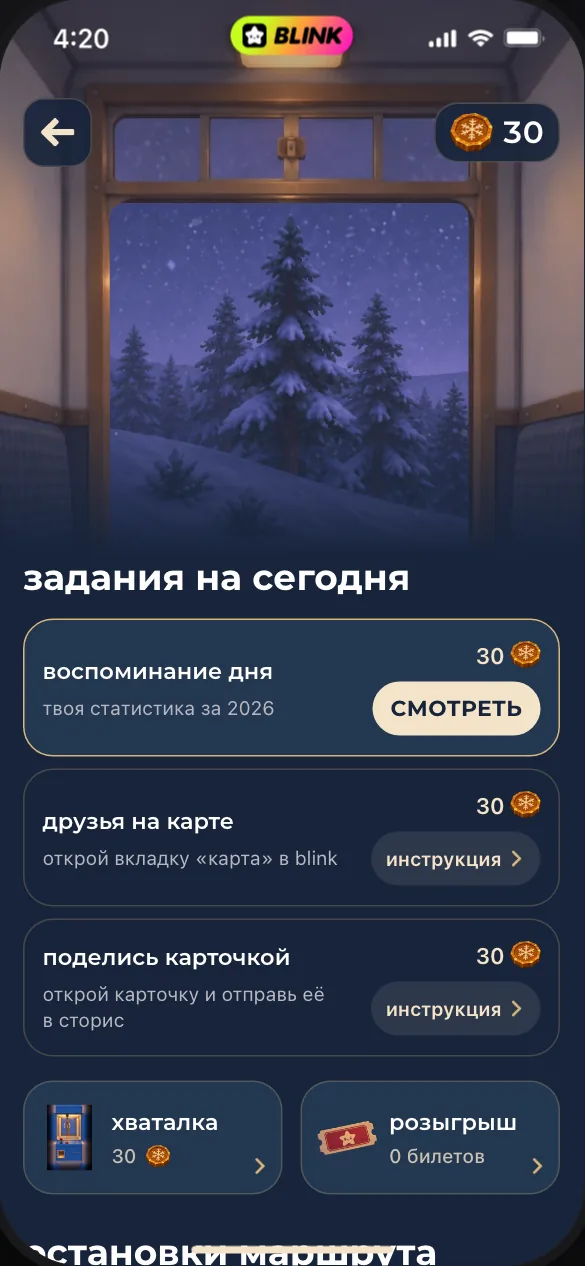
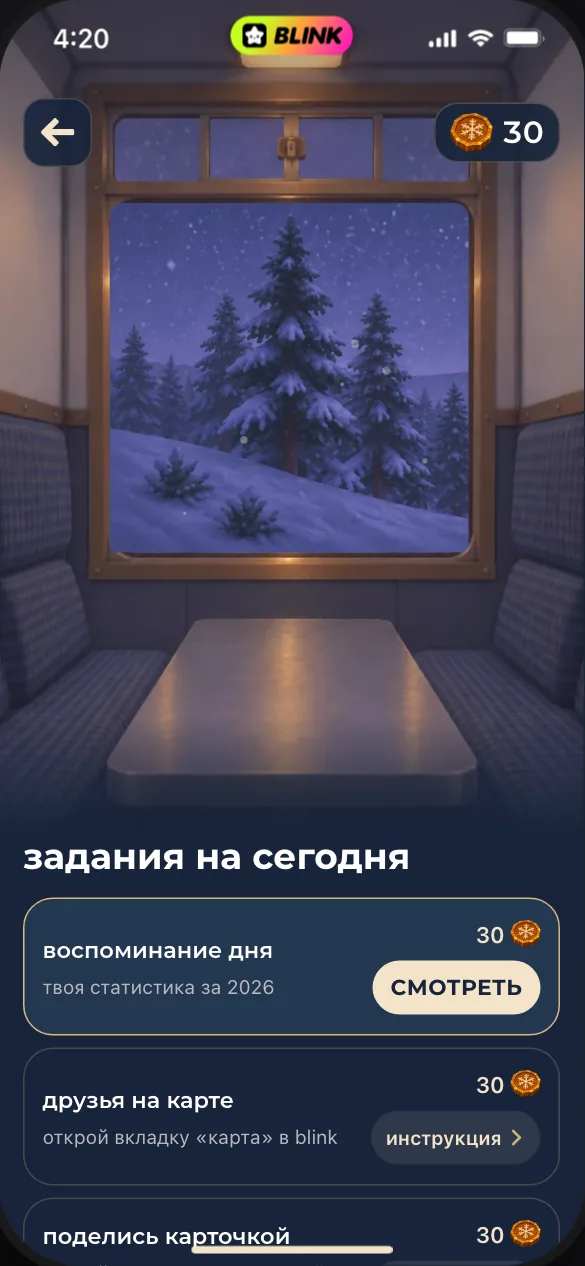
Add daily train views and a deeper claw-machine chamber

Changed region(s): [[0.0, 0.3389, 1.0, 1.0]]

diff --git a/features/advent/av-journey.js b/features/advent/av-journey.js
@@ -1,4 +1,4 @@
-/* НГБЛИНК: воспоминание на столике, случайный захват и печенье у камина. */
+/* НГБЛИНК: пейзажи поездки, случайный захват и печенье у камина. */
 (() => {
   'use strict';
   const A = name => `art/${name}.webp`;
@@ -6,6 +6,9 @@
   const icon = name => `<i class="icon icon--${name}" aria-hidden="true"></i>`;
   const art = (day, i, seen, getSrc) => `<span class="ex-day-object"><img class="ex-day-object__base" src="${A(atHome(i) ? (seen ? 'cookie' : 'stocking') : 'suitcase')}" alt="">${i === 0 ? '' : `<img class="ex-day-object__topic" src="${getSrc((day.charm || day.hero || day.obj) === 'fan' ? 's:fire' : (day.charm || day.hero || day.obj))}" alt="">`}</span>`;
   const J = window.AV_JOURNEY = { A, atHome, art };
+  // 14–31 December: the same date always returns the same view, with no adjacent repeats.
+  const route = ['panorama','village','river','viaduct','mountains','lake','city','panorama','mountains','village','lake','river','viaduct','city','mountains','panorama','village','city'];
+  J.landscape = index => atHome(index) ? null : A(`winter-${route[index] || 'panorama'}`);
   J.hero = ({day,i,seen}) => atHome(i)
     ? `<h2 class="visually-hidden" id="today-title">предсказание дня</h2><button class="ex-fortune-hotspot pressable" type="button" data-act="open-today" aria-label="${seen?'прочитать предсказание ещё раз':'открыть предсказание'}"></button>${seen?`<p class="av-today__seen">${icon('check')}предсказание прочитано</p>`:''}<button class="button ${seen?'button--secondary':'button--primary'} av-today__open pressable" type="button" data-act="open-today">${seen?'прочитать ещё раз':'открыть предсказание'}</button>`
     : '';
@@ -50,7 +53,7 @@
     if(decoration){root.innerHTML=`<div class="ex-decoration">${old.wire(ctx)}</div>`;root.querySelectorAll('[data-bulb]').forEach(e=>e.classList.add('is-lit'));return;}
     if(view==='result')return result();
     const empty=!remaining().length,poor=ctx.S.balance<ctx.D.ECONOMY.attempt;
-    root.innerHTML=`<div class="ex-arcade"><div class="ex-machine-wrap"><div class="ex-machine${view==='grabbing'?' is-grabbing':''}" role="img" aria-label="стеклянный аппарат в игровом вагоне" aria-busy="${view==='grabbing'}" style="--grab-drop:22cqh"><img class="ex-machine__car" src="${A('arcade-car')}" alt=""><img class="ex-machine__case" src="${A('claw-frame')}" alt=""><img class="ex-claw" src="${A('claw-hand')}" alt="">${view==='grabbing'?`<span class="ex-caught-prize"><img src="${ctx.src(award.prize.img)}" alt=""></span>`:''}</div></div><footer class="ex-arcade__footer"><button class="button button--primary" type="button" data-game="claw-grab" ${view==='grabbing'||empty?'disabled':''}>${view==='grabbing'?'достаём…':empty?'все подарки собраны':poor?'получить жетоны':`схватить <span>${ctx.D.ECONOMY.attempt}<img src="${A('coin')}" alt="жетонов"></span>`}</button><button class="ex-text-link" type="button" data-game="pool">все призы и правила ${icon('chevron')}</button></footer></div>`;
+    root.innerHTML=`<div class="ex-arcade"><div class="ex-machine-wrap"><div class="ex-machine${view==='grabbing'?' is-grabbing':''}" role="img" aria-label="стеклянный аппарат в игровом вагоне" aria-busy="${view==='grabbing'}" style="--grab-drop:32cqh"><img class="ex-machine__car" src="${A('arcade-car')}" alt=""><img class="ex-machine__case" src="${A('claw-frame')}" alt=""><div class="ex-machine__well" aria-hidden="true"></div><div class="ex-machine__depth"><span class="ex-machine__cable" aria-hidden="true"></span><img class="ex-claw" src="${A('claw-hand')}" alt="">${view==='grabbing'?`<span class="ex-caught-prize"><img src="${ctx.src(award.prize.img)}" alt=""></span>`:''}</div><div class="ex-machine__console" aria-hidden="true"><img src="${A('claw-frame')}" alt=""></div></div></div><footer class="ex-arcade__footer"><button class="button button--primary" type="button" data-game="claw-grab" ${view==='grabbing'||empty?'disabled':''}>${view==='grabbing'?'достаём…':empty?'все подарки собраны':poor?'получить жетоны':`схватить <span>${ctx.D.ECONOMY.attempt}<img src="${A('coin')}" alt="жетонов"></span>`}</button><button class="ex-text-link" type="button" data-game="pool">все призы и правила ${icon('chevron')}</button></footer></div>`;
   }
   function result(){
     if(!award)return;

diff --git a/features/advent/states.js b/features/advent/states.js
@@ -42,6 +42,12 @@ export const STATES = [
   { id: "home-ready", group: "calendar", title: "купе после онбординга", text: "задания под окном; «смотреть» открывает статистику и начисляет жетоны" },
   { id: "home-seen", group: "calendar", title: "факт просмотрен", text: "задание выполнено; «ещё раз» без новой награды" },
   { id: "home", group: "calendar", title: "конец декабря", text: "22.12: точки – непросмотренные дни, даты под предметами" },
+  { id: "landscape:15.12", group: "calendar", title: "деревня за окном", text: "15.12: тёплые окна среди заснеженных домов" },
+  { id: "landscape:16.12", group: "calendar", title: "речная долина", text: "16.12: река и снежные берега" },
+  { id: "landscape:17.12", group: "calendar", title: "виадук", text: "17.12: каменный мост над зимним ущельем" },
+  { id: "landscape:18.12", group: "calendar", title: "горы за окном", text: "18.12: снежные вершины в сумерках" },
+  { id: "landscape:19.12", group: "calendar", title: "зимнее озеро", text: "19.12: ледяная гладь в лунном свете" },
+  { id: "landscape:20.12", group: "calendar", title: "праздничный город", text: "20.12: часы, огни и ёлка на площади" },
   { id: "arrival", group: "calendar", title: "1 января — дома", text: "гостиная с камином, поездка завершена" },
   { id: "fireside-seen", group: "calendar", title: "предсказание прочитано", text: "повторный просмотр без новой награды" },
   { id: "home-late", group: "calendar", title: "январь", text: "05.01: декабрь открыт, идут предсказания" },

diff --git a/features/advent/av-journey.css b/features/advent/av-journey.css
@@ -38,8 +38,9 @@
 .ex-cabin::after {content:"";position:absolute;inset:0;z-index:-1;pointer-events:none;background:linear-gradient(180deg,rgb(12 19 33 / .35),transparent 22%,transparent 73%,rgb(12 19 33 / .65));}
 .av-home::after {display:none;}
 .ex-cabin__window {position:absolute;left:18.9%;top:18.8%;width:61.3%;height:32%;overflow:hidden;border-radius:var(--journey-window-radius);z-index:-1;pointer-events:none;}
-.ex-cabin__landscape {position:absolute;inset:0 auto 0 0;display:flex;width:600%;height:100%;animation:ex-travel 36s linear infinite;}
-.ex-cabin__landscape img {width:50%;max-width:none;height:100%;flex:0 0 50%;object-fit:fill;}
+.ex-cabin__landscape {position:absolute;inset:0 auto 0 0;display:flex;width:900%;height:100%;animation:ex-travel 72s linear infinite;animation-delay:var(--journey-landscape-delay,0s);}
+.ex-cabin__landscape img {width:33.3333333%;max-width:none;height:100%;flex:0 0 33.3333333%;object-fit:fill;}
+.ex-cabin__landscape img:nth-child(2) {transform:scaleX(-1);}
 .av[data-scene-paused] .ex-cabin__landscape {animation-play-state:paused;}
 .av[data-phase="home"] .ex-cabin__window {display:none;}
 .av[data-phase="home"] .ex-cabin::after {background:linear-gradient(180deg,rgb(36 24 31 / .42),transparent 35%,transparent 78%,rgb(36 24 31 / .6));}
@@ -194,7 +195,7 @@
 .av-sheet {background:var(--journey-navy);}
 .av-share__story .ex-fortune {height:100%;padding-top:0;}
 @keyframes ex-grab {0%,10% {transform:translateX(-50%);}42% {transform:translate(-50%,var(--grab-drop));}54% {transform:translate(-50%,var(--grab-drop)) scaleX(.8);}82%,100% {transform:translateX(-50%) scaleX(.8);}}
-@keyframes ex-travel {to {transform:translateX(-50%);}}
+@keyframes ex-travel {to {transform:translateX(-66.6666667%);}}
 @media(max-height:740px) {
  .av-today {padding-top:var(--space-8);}
  .av-home .av-entry {height:68px;}

diff --git a/features/advent/av-machine.css b/features/advent/av-machine.css
@@ -1,0 +1,13 @@
+/* The console extends the cabinet's supplied blue enamel; the lower chamber recedes into shadow. */
+:root {--journey-console-height:max(23cqh,160px);--journey-well-shadow:rgb(0 0 0 / .96);}
+.av-game-screen>.av-bar {display:flex;justify-content:space-between;}
+.ex-machine__well {position:absolute;left:3.2%;right:3.2%;top:45%;bottom:var(--journey-console-height);z-index:2;pointer-events:none;background:linear-gradient(transparent,var(--journey-well-shadow) 86%,var(--journey-well-shadow));}
+.ex-machine__depth {position:absolute;inset:0;z-index:3;pointer-events:none;-webkit-mask-image:linear-gradient(#000 58%,transparent 78%);mask-image:linear-gradient(#000 58%,transparent 78%);}
+.ex-machine__cable {position:absolute;top:22%;left:50%;width:3px;height:calc(var(--grab-drop) + var(--space-8));background:var(--journey-brass);box-shadow:1px 0 2px rgb(0 0 0 / .6);transform:translateX(-50%) scaleY(0);transform-origin:50% 0;}
+.ex-machine.is-grabbing .ex-machine__cable {animation:ex-cable 2.6s var(--ease-emphasized) both;}
+.ex-machine__console {position:absolute;left:0;right:0;bottom:0;height:var(--journey-console-height);z-index:4;overflow:hidden;background:var(--journey-panel);box-shadow:0 -1px 0 var(--journey-brass),0 -8px 24px rgb(0 0 0 / .45);pointer-events:none;}
+.ex-machine__console img {position:absolute;bottom:0;left:0;width:100%;height:220cqh;max-width:none;object-fit:fill;}
+.ex-caught-prize {top:calc(45% + var(--grab-drop));}
+.ex-arcade__footer .ex-text-link {min-height:44px;}
+@keyframes ex-cable {0%,10% {transform:translateX(-50%) scaleY(0);}42%,54% {transform:translateX(-50%) scaleY(1);}82%,100% {transform:translateX(-50%) scaleY(0);}}
+@media(prefers-reduced-motion:reduce) {.ex-machine.is-grabbing .ex-machine__cable {animation:none;}}

diff --git a/features/advent/index.html b/features/advent/index.html
@@ -23,6 +23,7 @@
 <link rel="stylesheet" href="av-home.css">
 <link rel="stylesheet" href="av-journey.css">
 <link rel="stylesheet" href="av-tasks.css">
+<link rel="stylesheet" href="av-machine.css">
 </head>
 <body>
 <div class="stage">
@@ -52,7 +53,7 @@
               <div class="ex-cabin">
                 <img class="ex-home-scene" id="home-scene" src="art/train-window.webp" alt="">
                 <div class="ex-cabin__window" aria-hidden="true">
-                  <div class="ex-cabin__landscape"><img src="art/winter-panorama.webp" alt=""><img src="art/winter-panorama.webp" alt=""></div>
+                  <div class="ex-cabin__landscape"><img src="art/winter-panorama.webp" alt=""><img src="art/winter-panorama.webp" alt=""><img src="art/winter-panorama.webp" alt=""></div>
                   <canvas class="av-sky" id="sky"></canvas>
                 </div>
               <header class="av-bar">
@@ -125,7 +126,7 @@
               <button class="icon-button icon-button--header av-bar__back pressable" type="button" aria-label="назад" data-act="back">
                 <i class="icon icon--back" aria-hidden="true"></i>
               </button>
-              <h2 class="av-bar__title" id="game-title">хваталка</h2>
+              <h2 class="visually-hidden" id="game-title">хваталка</h2>
               <span class="av-balance" aria-label="жетоны">
                 <img class="av-balance__icon" src="art/coin.webp" alt="">
                 <span class="av-balance__value" data-balance>0</span>

diff --git a/features/advent/advent.js b/features/advent/advent.js
@@ -410,6 +410,12 @@
     const day = D.DAYS[S.today], home = J.atHome(S.today), seen = S.days[S.today].seen;
     app.dataset.phase = home ? "home" : "train";
     $("#home-scene").src = J.A(home ? "living-room" : "train-window");
+    if (!home) {
+      const view = J.landscape(S.today), panorama = $(".ex-cabin__landscape");
+      panorama.dataset.landscape = view;
+      panorama.style.setProperty("--journey-landscape-delay", `-${(S.today % 6) * 12}s`);
+      $$("img", panorama).forEach(image => { if (image.getAttribute("src") !== view) image.src = view; });
+    }
     $("#home-title").textContent = "новый год";
     $("#home-today").hidden = !home;
     $("#home-today").classList.toggle("is-seen", seen);
@@ -949,6 +955,12 @@
       case "intro": resetTo(0); S.introSeen = false; openSheet("intro"); break;
       case "train": case "journey-first": case "home-first": resetTo(0); if (!S.introSeen) openSheet("intro"); break;
       case "home-ready": resetTo(0); break;
+      case "landscape": {
+        const i = dayIdx(arg);
+        if (i < 0 || i >= 18) return false;
+        resetTo(i);
+        break;
+      }
       case "home-seen": resetTo(0); S.days[0].seen = true; completeTask("memory", 0, { animate: false, refresh: false }); renderHome(); break;
       case "home": resetTo(8); break;
       case "fireside": case "home-late": resetTo(dayIdx("05.01")); break;

diff --git a/features/advent/av-tasks.css b/features/advent/av-tasks.css
@@ -1,5 +1,5 @@
 /* The cabin stays scenic. Daily actions form the first usable section below the window. */
-:root {--journey-interface-overlap:42cqh;--journey-interface-fade:112px;}
+:root {--journey-interface-overlap:20cqh;--journey-interface-fade:80px;}
 .av[data-phase="train"] .ex-home-content {margin-top:calc(-1 * var(--journey-interface-overlap));padding-top:0;}
 .ex-home-content {z-index:1;isolation:isolate;}
 .ex-home-content::before {content:"";position:absolute;left:0;right:0;bottom:calc(100% - 1px);height:var(--journey-interface-fade);background:linear-gradient(transparent,var(--journey-navy));pointer-events:none;z-index:-1;}

diff --git a/tools/smoke_advent_journey.py b/tools/smoke_advent_journey.py
@@ -1,5 +1,7 @@
 """Express → fireside transition, atomic claw awards, raffle and daily memories."""
 from pathlib import Path
+from io import BytesIO
+from PIL import Image
 from compare import serve
 from playwright.sync_api import sync_playwright
 
@@ -20,7 +22,7 @@ def check_feature(browser,port,errors,check):
     check('main screen has no title, stop counter, diary or repeated introduction',page.locator('#home-title').evaluate('e=>e.classList.contains("visually-hidden")') and not page.locator('#screen-home .ex-daily__chapter,#screen-home img[src*="journal"]').count() and 'каждый день' not in page.locator('#home-today').inner_text())
     check('scenery has no postcard or hidden window gesture',not page.locator('.ex-postcard,.ex-memory-window').count() and not page.locator('#home-today').is_visible() and page.locator('#home-scene').get_attribute('src').endswith('train-window.webp'))
     check('viewing statistics is the first explicit task',page.locator('#home-tasks [data-row]').first.get_attribute('data-row')=='memory' and page.locator('#home-tasks [data-act="task-memory"]').inner_text()=='СМОТРЕТЬ' and not js('AV.S.days[0].seen'))
-    check('tasks are raised into the first screen and calendar follows prize entries',page.locator('#home-tasks').bounding_box()['y']<844*.5 and page.locator('#home-entries').bounding_box()['y']>page.locator('#home-tasks').bounding_box()['y'] and page.locator('.av-calendar').bounding_box()['y']>page.locator('#home-entries').bounding_box()['y'])
+    check('table and benches remain above the task panel, calendar follows prize entries',page.locator('#home-tasks').evaluate('e=>{const c=document.querySelector(".ex-cabin").getBoundingClientRect(),r=e.getBoundingClientRect();return r.top>=c.top+c.height*.74&&r.top<innerHeight*.72;}') and page.locator('#home-entries').bounding_box()['y']>page.locator('#home-tasks').bounding_box()['y'] and page.locator('.av-calendar').bounding_box()['y']>page.locator('#home-entries').bounding_box()['y'])
     check('interface blends into the train with a non-interactive gradient',page.locator('.ex-home-content').evaluate('e=>getComputedStyle(e,"::before").backgroundImage.includes("linear-gradient")&&getComputedStyle(e,"::before").pointerEvents==="none"'))
     js('AV.completeTask("memory")')
     check('an external event cannot award an unread memory',js('AV.S.days[0].memory')=='todo' and js('AV.S.balance')==30)
@@ -29,6 +31,14 @@ def check_feature(browser,port,errors,check):
     page.emulate_media(reduced_motion='reduce')
     check('reduced motion stops the passing landscape',page.locator('.ex-cabin__landscape').evaluate('e=>getComputedStyle(e).animationName=="none"'))
     page.emulate_media(reduced_motion='no-preference')
+    route=[]
+    for day in range(18):
+        js(f'AV.resetTo({day})')
+        page.wait_for_function('[...document.querySelectorAll(".ex-cabin__landscape img")].every(i=>i.complete&&i.naturalWidth>0)')
+        route.append(page.locator('.ex-cabin__landscape img').first.get_attribute('src'))
+    check('all 18 December dates have a stable view that changes each day',len(set(route))==7 and all(a!=b for a,b in zip(route,route[1:])) and all(route[i]==js(f'AV_JOURNEY.landscape({i})') for i in range(18)))
+    check('six generated panoramas match the original landscape proportions',page.locator('.ex-cabin__landscape img').evaluate_all('els=>els.length==3&&els.every(i=>Math.abs(i.naturalWidth/i.naturalHeight-3)<.02)') and page.locator('.ex-cabin__landscape img').nth(1).evaluate('e=>getComputedStyle(e).transform.startsWith("matrix(-1")'))
+    js("AV.showState('home-ready')")
     check('new entry is a claw machine, not a wheel',page.locator('[data-go="game"].av-entry').inner_text().startswith('хваталка') and not page.locator('.nw-wheel,.av-frost,.av-cell__ice').count())
     check('route has 18 December stops with dates below their luggage',page.locator('#calendar [data-day]').count()==18 and page.locator('#calendar .av-cell').evaluate_all('els=>els.every(e=>e.querySelector(".av-cell__date").getBoundingClientRect().top>=e.querySelector(".av-cell__art").getBoundingClientRect().bottom)'))
     check('phone content contains no technical or demo labels',not page.locator('#app').evaluate('e=>/демо|dev.?ready|smoke|prototype|placeholder|служебн/iu.test(e.innerText)'))
@@ -52,6 +62,10 @@ def check_feature(browser,port,errors,check):
     page.locator('[data-go="game"].av-entry').click();page.wait_for_timeout(350)
     check('ready claw has no prize choices or winners feed',not page.locator('.ex-machine-prize,.ex-feed,.ex-caught-prize').count() and page.locator('[data-game="claw-grab"]').inner_text().startswith('СХВАТИТЬ'))
     check('glass chamber fills the phone and shows a separate arcade carriage',page.locator('.ex-machine__case').get_attribute('src').endswith('claw-frame.webp') and page.locator('.ex-machine__car').get_attribute('src').endswith('arcade-car.webp') and page.locator('.ex-machine').evaluate('e=>{const r=e.getBoundingClientRect(),a=document.querySelector("#app").getBoundingClientRect();return Math.abs(r.width-a.width)<1&&Math.abs(r.height-a.height)<1;}'))
+    check('claw title is visually hidden and both controls sit on the cabinet console',page.locator('#game-title').evaluate('e=>e.classList.contains("visually-hidden")') and page.locator('.ex-machine__console').evaluate('e=>{const p=e.getBoundingClientRect();return [...document.querySelectorAll(".ex-arcade__footer button")].every(b=>{const r=b.getBoundingClientRect();return r.top>=p.top&&r.bottom<=p.bottom&&r.left>=p.left&&r.right<=p.right;});}'))
+    chamber=Image.open(BytesIO(page.locator('.ex-machine').screenshot())).convert('RGB')
+    dark=chamber.getpixel((round(chamber.width*.25),round(chamber.height*.73)))
+    check('the lower chamber is dark and the claw fades into its depth',sum(dark)/3<55 and page.locator('.ex-machine__depth').evaluate('e=>getComputedStyle(e).maskImage.includes("linear-gradient")'))
     page.wait_for_timeout(250)
     check('waiting does not charge or choose a prize',js('AV.S.balance')==90 and js('AV_GAME.state().view')=='ready' and js('AV_GAME.state().award') is None)
     available=js('AV.D.POOL.filter(p=>!AV.S.taken.includes(p.id)).map(p=>p.id)');before=js('[AV.S.balance,AV.S.taken.length,AV.S.tickets]')
@@ -147,6 +161,8 @@ def check_feature(browser,port,errors,check):
             fit=js('document.documentElement.scrollWidth<=innerWidth')
             if js('AV.current()')=='game':
                 fit=fit and page.locator('#game').evaluate('e=>e.scrollHeight<=e.clientHeight+1') and page.locator('#game button.button').evaluate('e=>{const r=e.getBoundingClientRect();return r.bottom<=innerHeight&&r.top>=0;}')
+                if page.locator('.ex-machine__console').count():
+                    fit=fit and page.locator('.ex-machine__console').evaluate('e=>{const p=e.getBoundingClientRect();return [...document.querySelectorAll(".ex-arcade__footer button")].every(b=>{const r=b.getBoundingClientRect();return r.top>=p.top&&r.bottom<=p.bottom;});}')
             if js('AV.current()')=='draw' and not state.endswith('closed'):
                 fit=fit and page.locator('.avd-cta').evaluate('e=>e.getBoundingClientRect().bottom<=innerHeight')
             if state.startswith('home') or state=='arrival':

diff --git a/tools/build_assets.py b/tools/build_assets.py
@@ -1454,7 +1454,10 @@ def build_advent_journey() -> None:
                 image.thumbnail((900, 1350), Image.Resampling.LANCZOS)
                 image.save(out / f"{name}.webp", "WEBP", quality=92, method=6)
     # Scene layers derived with imagegen from the supplied cabin and cabinet.
-    for name, size in (("winter-panorama", (2172, 724)), ("claw-window", (1024, 1536)), ("claw-glass", (1024, 1536)), ("arcade-car", (1024, 1536)), ("claw-frame", (1024, 1536))):
+    landscapes = [f"winter-{name}" for name in ("mountains", "lake", "village", "river", "viaduct", "city")]
+    scene_layers = [("winter-panorama", (2172, 724))] + [(name, (2172, 724)) for name in landscapes]
+    scene_layers += [(name, (1024, 1536)) for name in ("claw-window", "claw-glass", "arcade-car", "claw-frame")]
+    for name, size in scene_layers:
         master = out / f"{name}-master.png"
         if master.exists():
             with Image.open(master) as raw:

diff --git a/features/advent/NEW-YEAR.md b/features/advent/NEW-YEAR.md
@@ -16,11 +16,13 @@
 
 На постоянной главной нет видимого верхнего заголовка, счётчика остановок, повторного объяснения и путевого дневника. Окно — декорация: зимняя панорама и снег движутся за стеклом, интерьер неподвижен. На стекле нет скрытого действия и запотевания; открытки на столике тоже нет.
 
-Нижний интерфейс начинается на 44% высоты телефона, сразу под окном. Он плавно переходит из прозрачного слоя в заливку navy, без жёсткого шва. Порядок: задания → хваталка и розыгрыш → остановки маршрута в самом низу. Исходная сцена высотой 86cqh сохраняет пропорции; интерфейс накладывается на её нижнюю часть с отрицательным отступом 42cqh. Январская комната и предсказание сохраняют прежнее расположение, задания скрыты.
+Нижний интерфейс начинается на 66% высоты телефона, ниже столика: окно, обе скамьи и поверхность стола остаются видимыми. Он плавно переходит из прозрачного слоя в заливку navy, без жёсткого шва. Порядок: задания → хваталка и розыгрыш → остановки маршрута в самом низу. Исходная сцена высотой 86cqh сохраняет пропорции; интерфейс накладывается на её нижнюю часть с отрицательным отступом 20cqh. Январская комната и предсказание сохраняют прежнее расположение, задания скрыты.
 
 Первое задание — «воспоминание дня», описание «твоя статистика за 2026» и видимая кнопка «смотреть». Открытие сегодняшней декабрьской карточки автоматически начисляет 30 жетонов ровно один раз, независимо от входа через задание, отдельный день или шеринг. Повторный просмотр остаётся доступным через «ещё раз» и не даёт новой награды. Просмотр старого дня и январского предсказания не начисляет жетоны. Внешнее событие не может выдать награду до реального просмотра.
 
 У задания выполненного просмотра есть галочка, подпись «карточка просмотрена» и вторичный CTA. Остальные ячейки содержат название, краткое описание, награду справа и отдельную кнопку «инструкция». Открытие инструкции не завершает задание. Ежедневный вход начисляется автоматически и не занимает отдельную ячейку на главной. Поделиться карточкой и действие дня остаются отдельными заданиями. В интерфейсе нет кнопки «забрать». Возврат со статистики сохраняет прокрутку; клавиатурный фокус возвращается к просмотру.
+
+Каждый декабрьский день получает определённый пейзаж: прежний лес и шесть новых панорам — деревня, река, виадук, горы, озеро, праздничный город. Соседние даты всегда различаются; повторное открытие той же даты сохраняет вид. Всего семь мест на 18 дней, точка начала панорамы дополнительно сдвигается по дате. Назначение задано в `AV_JOURNEY.landscape(S.today)`, а не случайным выбором при рендере. Пейзаж показан только в большой оконной секции. Два зеркально стыкованных вида и первый повтор обеспечивают непрерывный 72-секундный проход без резкого шва. При reduced motion движение остановлено. В январе остаётся комната с камином.
 
 Календарь содержит 18 декабрьских остановок или 11 январских вечеров. Даты под предметами, просмотренные дни отмечены галочкой, непросмотренные доступные — точкой. Будущие даты закрыты. Доступный день открывает отдельный экран. Январский вход «твой 2026» показывает архив декабря, переключатель возвращает январь. Тематические предметы всех 29 дней различаются.
 
@@ -30,9 +32,9 @@
 
 ## Стеклянная хваталка
 
-Полноэкранный крупный план: металлическая рама и клешня, полупрозрачные стеклянные стенки, сквозь которые виден отдельный игровой вагон того же экспресса: центральный проход, ряды аркадных автоматов и зимние окна, без купейных сидений и столика. Нижней тумбы, джойстика и ножек в кадре нет. Лента чужих выигрышей и три предварительных приза удалены.
+Полноэкранный крупный план: металлическая рама и клешня, полупрозрачные стеклянные стенки, сквозь которые виден отдельный игровой вагон того же экспресса: центральный проход, ряды аркадных автоматов и зимние окна, без купейных сидений и столика. Нижней тумбы, джойстика и ножек в кадре нет. Синяя фронтальная панель корпуса занимает нижние `max(23cqh,160px)`; кнопка «схватить» и текстовый вход в правила целиком находятся на ней. Материал панели — увеличенная нижняя полоса исходной рамы, без новой растровой правки. Видимый заголовок «хваталка» убран, доступное имя экрана сохранено. Лента чужих выигрышей и три предварительных приза удалены.
 
-Одна попытка стоит 30 жетонов. Нажатие «схватить» выбирает случайный подарок из **всей** оставшейся коллекции, без тайминга и выбора позиции. До нажатия приз не назначен и не показан. Клешня опускается, подхватывает появляющийся подарок и поднимается; через 2.6 секунды открыт экран получения с настоящим призом и билетом.
+Одна попытка стоит 30 жетонов. Нажатие «схватить» выбирает случайный подарок из **всей** оставшейся коллекции, без тайминга и выбора позиции. До нажатия приз не назначен и не показан. Нижняя часть стеклянной камеры уходит в почти чёрную тень, горизонтального пола и пустых отсеков не видно. Клешня опускается на 32cqh; трос вытягивается из верхнего крепления, сама клешня исчезает в тени и поднимает оттуда подарок; через 2.6 секунды открыт экран получения с настоящим призом и билетом.
 
 Перед анимацией атомарно резервируются уникальный приз, билет и списание. Повторный ввод не создаёт вторую выдачу. Выход во время захвата сохраняет результат; возвращение открывает его без оплаты. Сброс отменяет прежний таймер. В reduced motion анимация пропускается, результат появляется через 120 мс.
 
@@ -58,14 +60,14 @@
 
 План композиции: существующие navy / brass / cream / hearth и Montserrat / SF. Главная — вид из купе → плавный переход в задания → два призовых входа → остановки маршрута. Хваталка — вид сквозь стекло внутрь вагона. Предсказание — изолированный предмет на размытом фоне, затем светлая бумажка.
 
-План и новые размеры: перекрытие сцены `--journey-interface-overlap:42cqh`, высота прозрачного перехода `--journey-interface-fade:112px`. Ячейки заданий — 92px, padding12, gap8 и radius20 из существующей сетки; выполненное обычное задание — 56px. Первая ячейка использует существующие panel / brass и компактную cream-кнопку. Текст — текущие роли friend-name / note / caption / button; награда всегда «число → жетон». Визуальная кнопка 36px имеет область касания 44px. Дополнительные иллюстрации заданиям не нужны. Градиент используется только для запрошенного перехода между сценой и нижним интерфейсом.
+План и новые размеры: перекрытие сцены `--journey-interface-overlap:20cqh`, высота прозрачного перехода `--journey-interface-fade:80px`. Ячейки заданий — 92px, padding12, gap8 и radius20 из существующей сетки; выполненное обычное задание — 56px. Первая ячейка использует существующие panel / brass и компактную cream-кнопку. Текст — текущие роли friend-name / note / caption / button; награда всегда «число → жетон». Визуальная кнопка 36px имеет область касания 44px. Дополнительные иллюстрации заданиям не нужны. Градиент используется только для запрошенного перехода между сценой и нижним интерфейсом.
 
-06.11: просмотрены рендеры @2x и нативная версия 390×844 для непросмотренного и просмотренного задания и январской комнаты. Оценка композиции — 8/10: явное действие находится на первом экране, награда отделена от текста, все карточки выровнены по одной сетке, остановки завершают страницу. Вариант с протиранием окна отклонён пользователем и удалён из активного кода; окно не открывает статистику. Январская кнопка предсказания остаётся яркой, её не перекрывает переход.
+06.11, корректировка по последнему ревью: просмотрены нативная версия 390×844 и рендеры @2x главной с видимым столиком, новых пейзажей и камеры хваталки. Оценка композиции — 8/10: интерьер читается как купе, первое задание остаётся на первом экране, управление хваталкой лежит на корпусе, тень скрывает дно. Награда отделена от текста, карточки выровнены по одной сетке, остановки завершают страницу. Вариант с протиранием окна отклонён пользователем и удалён из активного кода; окно не открывает статистику. Январская кнопка предсказания остаётся яркой, её не перекрывает переход.
 
 Оригиналы `НГБЛИНК/` не изменяются. `build_advent_journey()` экспортирует производные WebP в `art/`. `arcade-car-master.png` / `arcade-car.webp` — новый самостоятельный игровой вагон, сгенерированный встроенным imagegen по стилю предоставленных интерьеров. `claw-frame-master.png` / `claw-frame.webp` — отдельная рама: у стеклянных панелей реальная прозрачность, через неё виден фон игрового вагона. Версия `claw-glass` с купе сохранена как промежуточный исходник, в продукте не используется. Промпт и происхождение — `IMAGE-PROMPTS.md`. Прежняя витрина сохранена как исходник. Целое и разломанное печенья повторно используют `renders/fortune-cookie.webp` и `renders/fortune-cookie-broken.webp` с альфа-каналом.
 
 ## Проверка и интеграция
 
-`python3 tools/smoke.py advent` проверяет однократный онбординг, явный вход из задания, автоматическую награду за просмотр и защиту от повторов, порядок секций, компоновку ячеек и просмотренные состояния, все 29 дней, автоматическое начисление заданий, весь пул случайных уникальных призов, повторный ввод, уход во время выдачи, этапы печенья, раннее закрытие, билетный розыгрыш, январские ограничения и 375/390/430. Перед публикацией — полный `smoke.py`. Галерею пересобирает `tools/shoot_advent.py`.
+`python3 tools/smoke.py advent` проверяет однократный онбординг, явный вход из задания, автоматическую награду за просмотр и защиту от повторов, порядок секций, компоновку ячеек и просмотренные состояния, назначение семи пейзажей на все 18 дней, отсутствие соседних повторов, загрузку панорам, положение кнопок на корпусе и темноту нижней камеры, все 29 дней, автоматическое начисление заданий, весь пул случайных уникальных призов, повторный ввод, уход во время выдачи, этапы печенья, раннее закрытие, билетный розыгрыш, январские ограничения и 375/390/430. Перед публикацией — полный `smoke.py`. Галерею пересобирает `tools/shoot_advent.py`.
 
 `window.dispatchEvent(new CustomEvent('advent:task-completed', {detail:{day:8,key:'task'}}))` — подтверждённое событие приложения. Принимается только текущий декабрьский день и известный ключ; повтор не выдаёт награду. Карта, чат, серверная дата, сохранение игровых данных и настоящая выдача остаются точками интеграции. Пульт воспроизводит эти состояния; данные прототипа, кроме флага онбординга, живут в памяти страницы. Просмотр — новая строка экономики `memory:30`; сервер должен атомарно сохранять её вместе с просмотренным состоянием дня.

diff --git a/features/advent/README.md b/features/advent/README.md
@@ -4,7 +4,7 @@
 
 Текущий сценарий, экономика, границы интеграции и проверка — [NEW-YEAR.md](NEW-YEAR.md).
 
-Композиция изнутри: с первого дня — купе с проезжающим за окном лесом. Просмотр статистики — первое задание с кнопкой «смотреть» и автоматической наградой 30 жетонов. После просмотра — галочка и «ещё раз», без повторного начисления. Задания подняты под окно, заливка интерфейса плавно переходит в поезд; затем идут хваталка и розыгрыш, в самом низу — остановки. На окне нет скрытого действия. Объяснение ежедневных фактов показано только в однократном онбординге первого дня. У хваталки стеклянные стенки с отдельным игровым вагоном за ними; одно нажатие выдаёт случайный уникальный подарок. В январе комната размывается, печенье появляется и ломается, из него выходит бумажка с предсказанием. Слои сцены и их происхождение — [IMAGE-PROMPTS.md](IMAGE-PROMPTS.md).
+Композиция изнутри: с первого дня — купе с меняющимися по дням видами за окном: лес, деревня, река, виадук, горы, озеро и праздничный город. Просмотр статистики — первое задание с кнопкой «смотреть» и автоматической наградой 30 жетонов. После просмотра — галочка и «ещё раз», без повторного начисления. Задания расположены ниже столика, чтобы были видны обе скамьи и интерьер, заливка интерфейса плавно переходит в поезд; затем идут хваталка и розыгрыш, в самом низу — остановки. На окне нет скрытого действия. Объяснение ежедневных фактов показано только в однократном онбординге первого дня. У хваталки стеклянные стенки с отдельным игровым вагоном за ними, затемнённая глубина вместо видимого дна и управление на нижней панели корпуса; одно нажатие выдаёт случайный уникальный подарок. В январе комната размывается, печенье появляется и ломается, из него выходит бумажка с предсказанием. Слои сцены и их происхождение — [IMAGE-PROMPTS.md](IMAGE-PROMPTS.md).
 
 - [Онбординг](https://herftpok.github.io/blink-prototype/features/advent/?state=intro)
 - [Купе после знакомства](https://herftpok.github.io/blink-prototype/features/advent/?state=home-ready)

diff --git a/features/advent/IMAGE-PROMPTS.md b/features/advent/IMAGE-PROMPTS.md
@@ -90,3 +90,22 @@ Use case: background-extraction. Asset type: transparent foreground frame/glass 
 ```
 
 Печенье и две совпадающие половинки повторно используют ранее подготовленные `renders/fortune-cookie.webp` и `renders/fortune-cookie-broken.webp`; новых растровых правок к ним не делали.
+
+## 06.11.2026 — шесть видов за окном экспресса
+
+Режим: встроенный imagegen, без CLI/API fallback. Каждая панорама — отдельный запрос с референсами `art/winter-panorama.webp` (цель вариации) и `art/train-window.webp` (только стиль купе). Оригиналы не менялись. Все выбранные PNG скопированы в проект; WebP экспортирует `build_advent_journey()`. Формат2172×724 RGB, горизонтальная панорама3:1.
+
+Полный финальный набор запросов, исходные имена генераций и имена файлов: [LANDSCAPE-PROMPTS.json](LANDSCAPE-PROMPTS.json). Общие ограничения: только внешний зимний пейзаж; мягкая объёмная низкополигональная стилистика, indigo/violet, снег, горизонт около середины, без окна, поезда, UI, текста и людей.
+
+| Сцена | Мастер | Рабочий файл |
+|---|---|---|
+| Снежные горы | `art/winter-mountains-master.png` | `art/winter-mountains.webp` |
+| Лунное озеро | `art/winter-lake-master.png` | `art/winter-lake.webp` |
+| Зимняя деревня | `art/winter-village-master.png` | `art/winter-village.webp` |
+| Речная долина | `art/winter-river-master.png` | `art/winter-river.webp` |
+| Каменный виадук | `art/winter-viaduct-master.png` | `art/winter-viaduct.webp` |
+| Праздничный город | `art/winter-city-master.png` | `art/winter-city.webp` |
+
+Назначение по датам фиксировано в `AV_JOURNEY.landscape()`: 14.12 лес → 15.12 деревня → 16.12 река → 17.12 виадук → 18.12 горы → 19.12 озеро → 20.12 город → 21.12 лес → 22.12 горы → 23.12 деревня → 24.12 озеро → 25.12 река → 26.12 виадук → 27.12 город → 28.12 горы → 29.12 лес → 30.12 деревня → 31.12 город. Повторный визит в тот же день сохраняет пейзаж; соседние дни не повторяются.
+
+Панорамы просмотрены отдельно и через реальную рамку купе на рендерах @2x. На главной интерфейс опущен ниже столика. Корпус хваталки в этой итерации растрово не менялся: нижняя синяя часть существующей `claw-frame.webp` служит материалом увеличенной фронтальной панели, нейтральная тень и маска глубины скрывают прежний пол, трос и захват анимируются отдельно.
